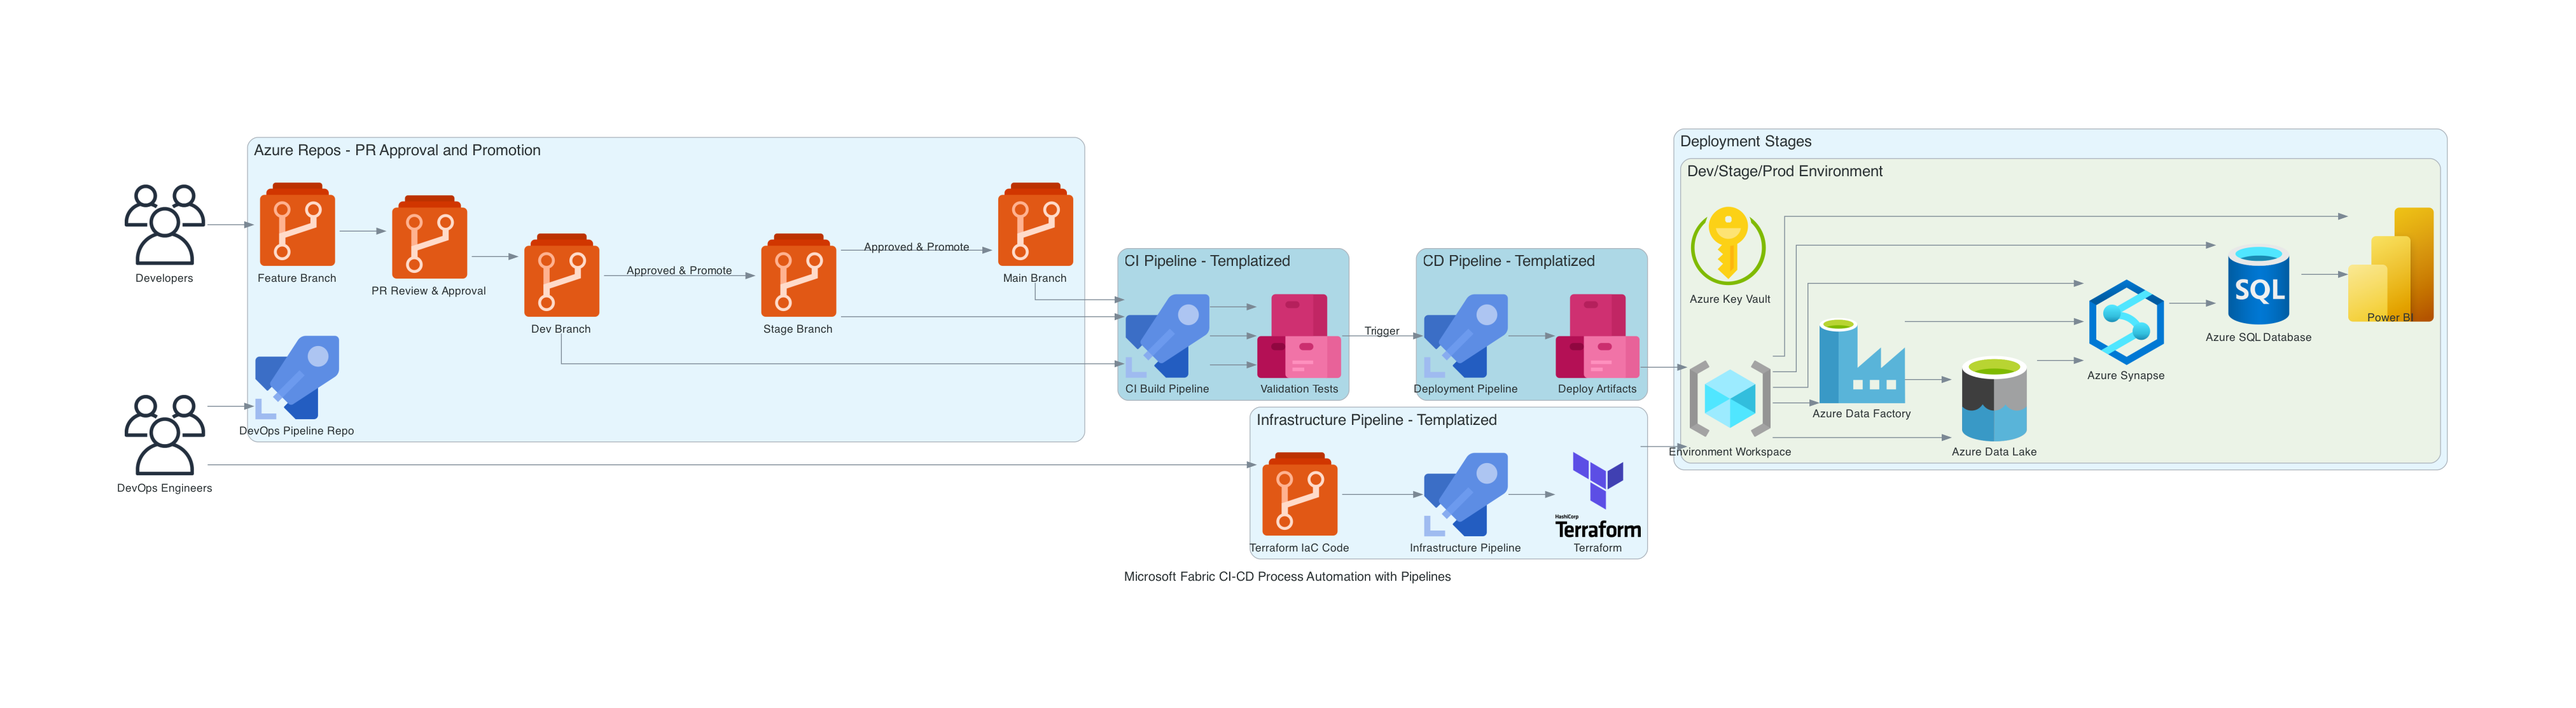
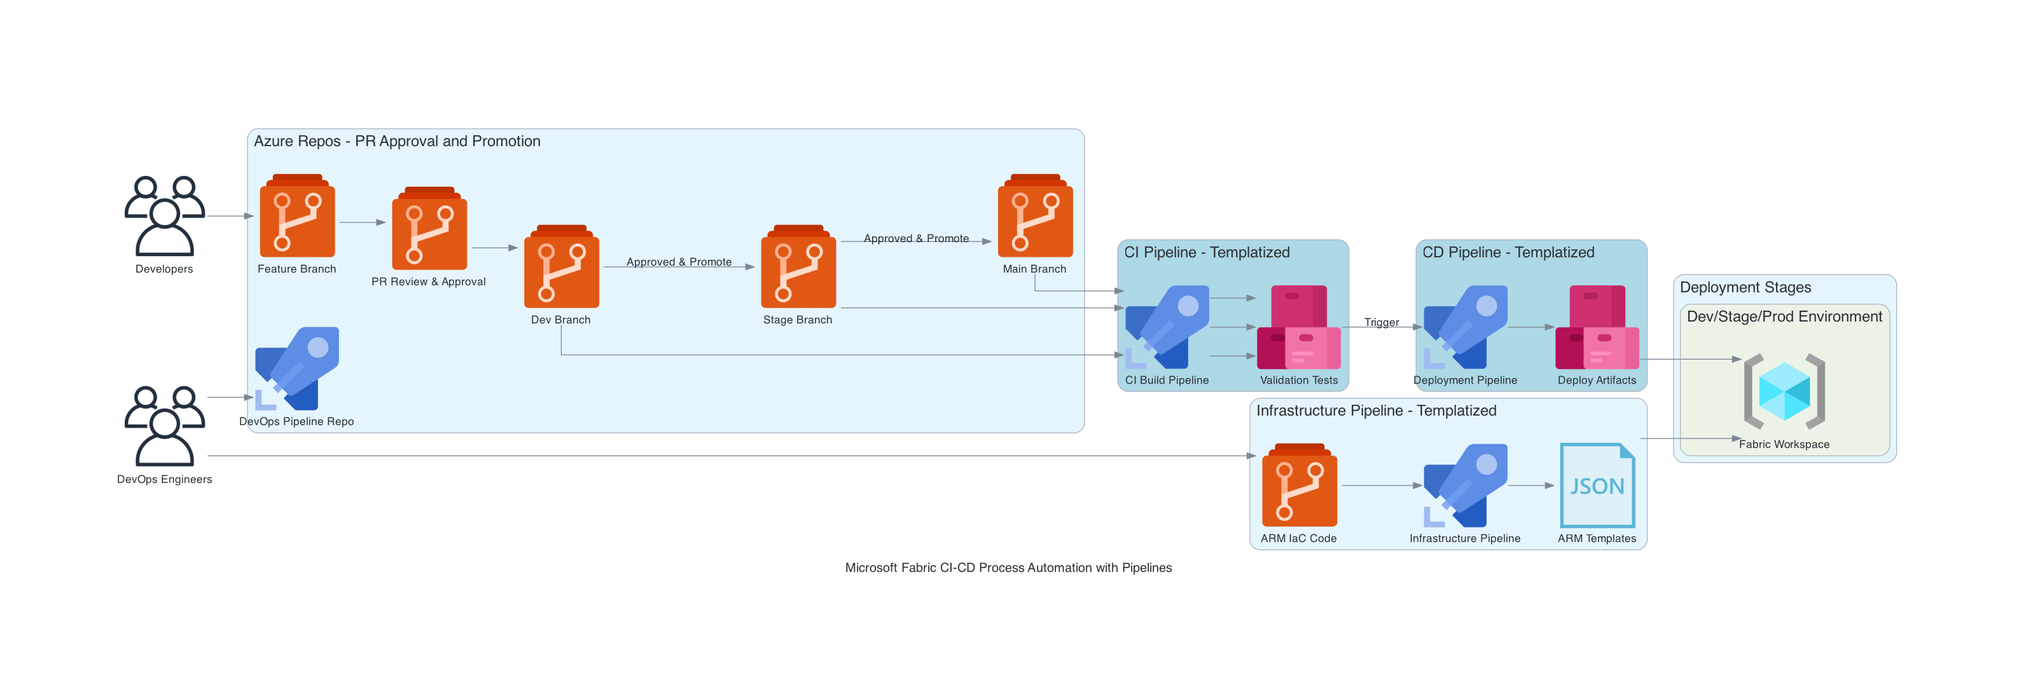
added updated diagram

Changed region(s): [[0.0312, 0.1545, 0.9669, 0.8345]]

diff --git a/diagrams/ms-fabric-cicd-with-branching.py b/diagrams/ms-fabric-cicd-with-branching.py
@@ -5,7 +5,8 @@ from diagrams.azure.compute import AppServices
 from diagrams.azure.database import SQLDatabases, DataLake
 from diagrams.azure.security import KeyVaults
 from diagrams.azure.analytics import SynapseAnalytics, DataFactories
-from diagrams.onprem.iac import Terraform
+# from diagrams.onprem.iac import Terraform
+from diagrams.azure.general import Templates as ARMTemplates
 from diagrams.custom import Custom
 from diagrams.onprem.client import Users
 from diagrams.azure.devops import Pipelines
@@ -41,9 +42,9 @@ with Diagram("Microsoft Fabric CI-CD Process Automation with Pipelines", show=Fa
 
     # Infrastructure as Code Pipeline Cluster
     with Cluster("Infrastructure Pipeline - Templatized", graph_attr={"fontsize": "18"}):
-        infra_repo = Repos("Terraform IaC Code")
+        infra_repo = Repos("ARM IaC Code")
         infra_pipeline = Pipelines("Infrastructure Pipeline")
-        infra_automation = Terraform("Terraform")
+        infra_automation = ARMTemplates("ARM Templates")
         devops_engineers >> infra_repo >> infra_pipeline >> infra_automation
 
     # Deployment Pipeline Cluster
@@ -57,31 +58,31 @@ with Diagram("Microsoft Fabric CI-CD Process Automation with Pipelines", show=Fa
         
         # Dev Environment
         with Cluster("Dev/Stage/Prod Environment", graph_attr={"fontsize": "18"}):
-            workspace = Resourcegroups("Environment Workspace")
-            data_lake = DataLake("Azure Data Lake")
-            data_factory = DataFactories("Azure Data Factory")
-            synapse = SynapseAnalytics("Azure Synapse")
-            sql_db = SQLDatabases("Azure SQL Database")
-            key_vault = KeyVaults("Azure Key Vault")
+            workspace = Resourcegroups("Fabric Workspace")
+            # data_lake = DataLake("Azure Data Lake")
+            # data_factory = DataFactories("Azure Data Factory")
+            # synapse = SynapseAnalytics("Azure Synapse")
+            # sql_db = SQLDatabases("Azure SQL Database")
+            # key_vault = KeyVaults("Azure Key Vault")
             # dev_app_services = AppServices("Azure App Services")
             # dev_api_services = AppServices("Azure API Services")
-            power_bi = Custom("Power BI", "./logo_resources/power_bi.png")
+            # power_bi = Custom("Power BI", "./logo_resources/power_bi.png")
             
             infra_automation >> workspace
-            workspace >> [data_lake, data_factory, synapse, sql_db, power_bi]
+            # workspace >> [data_lake, data_factory, synapse, sql_db, power_bi]
             # dev_sql_db >> dev_app_services >> dev_api_services >> dev_power_bi
             # dev_workspace >> dev_key_vault
             deploy_artifacts >> workspace
 
-                # Data Factory to Synapse flow
-    data_factory >> synapse
-    data_factory >> data_lake
+    # # Data Factory to Synapse flow
+    # data_factory >> synapse
+    # data_factory >> data_lake
 
-    # Data Lake connection to Synapse
-    data_lake >> synapse
+    # # Data Lake connection to Synapse
+    # data_lake >> synapse
 
-    # Synapse to SQL Database
-    synapse >> sql_db >> power_bi
+    # # Synapse to SQL Database
+    # synapse >> sql_db >> power_bi
 
 
         # Stage Environment
